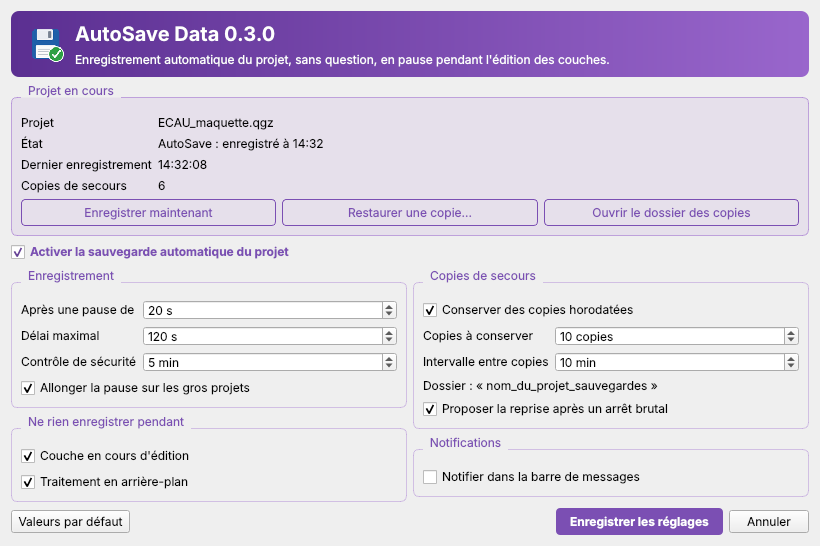
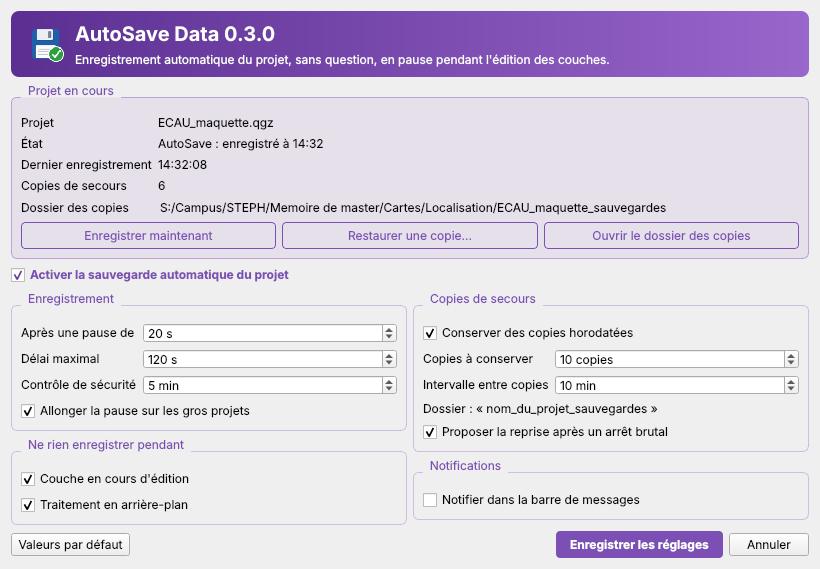
Reprise : suivre le changement de nom du projet, afficher le dossier des copies
Le journal de session gardait l'ancien nom après « Enregistrer sous », ce qui
faisait proposer le mauvais projet au redémarrage. Il suit maintenant chaque
enregistrement. La fenêtre de réglages affiche le dossier réel des copies.

Changed region(s): [[0.0, 0.0311, 0.9756, 0.9963]]

diff --git a/tests/test_plugin.py b/tests/test_plugin.py
@@ -661,6 +661,9 @@ def test_settings_dialog_receives_the_project_dashboard(env, monkeypatch):
     assert info["name"] == "carte.qgz" and info["has_file"] is True
     assert info["backups"] >= 1
     assert info["last_saved"] and "enregistré" in info["state"]
+    # Le vrai dossier des copies est transmis à la fenêtre, pas un nom générique
+    assert info["backup_dir"] == str(env.file.parent / "carte_sauvegardes")
+    assert dialog.last.info["backup_dir"].endswith("_sauvegardes")
 
 
 def test_settings_changes_are_applied_only_when_accepted(env, monkeypatch):
@@ -842,3 +845,22 @@ def test_journal_follows_project_and_saves(env):
     env.project.readProject.emit()                  # un autre projet est ouvert
     data = json.loads(next(sessions.iterdir()).read_text())
     assert data["project"].endswith("autre.qgz")
+
+
+def test_journal_follows_save_as_to_another_file(env):
+    """Enregistrer sous change le nom du projet sans rouvrir ni fermer : le journal
+    doit suivre, sinon la reprise proposerait l'ancien projet (constaté dans QGIS)."""
+    import json
+    sessions = env.dir / "_profil" / "AutoSaveData" / "sessions"
+    env.project.filename = str(env.dir / "test_reprise.qgz")   # Enregistrer sous
+    env.project.projectSaved.emit()                             # enregistrement manuel
+    data = json.loads(next(sessions.iterdir()).read_text())
+    assert data["project"].endswith("test_reprise.qgz")
+    assert data["last_save"] is not None
+
+    env.project.filename = str(env.dir / "troisieme.qgz")      # puis un autre nom, en auto
+    env.project.dirty = True
+    env.project.dirtySet.emit()
+    env.debounce.fire()
+    data = json.loads(next(sessions.iterdir()).read_text())
+    assert data["project"].endswith("troisieme.qgz")

diff --git a/autosave_data/dialog.py b/autosave_data/dialog.py
@@ -8,7 +8,7 @@ import os
 from qgis.PyQt.QtGui import QPixmap
 from qgis.PyQt.QtWidgets import (QCheckBox, QDialog, QDialogButtonBox,
                                  QFormLayout, QFrame, QGroupBox, QHBoxLayout,
-                                 QLabel, QListWidget, QListWidgetItem,
+                                 QLabel, QLineEdit, QListWidget, QListWidgetItem,
                                  QPushButton, QSpinBox, QVBoxLayout)
 
 from . import core
@@ -131,6 +131,16 @@ class SettingsDialog(QDialog):
                             QLabel(info.get("last_saved") or "aucun pour le moment"))
         backups = int(info.get("backups") or 0)
         project_form.addRow("Copies de secours", QLabel(str(backups)))
+        backup_dir = info.get("backup_dir") or ""
+        if backup_dir:
+            # Champ en lecture seule sur une ligne : un long chemin ne déforme pas
+            # la fenêtre, et on peut le sélectionner pour le copier.
+            folder_label = QLineEdit(backup_dir)
+            folder_label.setReadOnly(True)
+            folder_label.setCursorPosition(0)
+            folder_label.setToolTip(backup_dir)
+            folder_label.setStyleSheet("QLineEdit { background: transparent; border: none; }")
+            project_form.addRow("Dossier des copies", folder_label)
         hint = None
         if not has_file:
             hint = QLabel("Enregistrez d'abord le projet : Projet > Enregistrer sous.")

diff --git a/autosave_data/plugin.py b/autosave_data/plugin.py
@@ -343,6 +343,7 @@ class AutoSaveDataPlugin:
             "state": self._indicator.text() if self._indicator is not None else "",
             "last_saved": self._last_saved_text,
             "backups": len(core.list_backups(filename)) if filename else 0,
+            "backup_dir": core.backup_dir_for(filename) if filename else "",
         }
         dialog = SettingsDialog(self.config, self.iface.mainWindow(), info)
         runner = getattr(dialog, "exec", None) or dialog.exec_
@@ -403,7 +404,7 @@ class AutoSaveDataPlugin:
             self._conflict = False
             self._warned_external = False
             self._remember_signature(QgsProject.instance().fileName())
-            self._session("set_last_save")
+            self._session("set_last_save", QgsProject.instance().fileName())
 
     def _remember_signature(self, filename):
         """Mémorise l'état du fichier projet pour repérer une modification externe."""
@@ -710,7 +711,7 @@ class AutoSaveDataPlugin:
     def _notify_saved(self, filename):
         stamp = time.strftime("%H:%M:%S")
         self._last_saved_text = stamp
-        self._session("set_last_save")
+        self._session("set_last_save", filename)
         self._set_indicator(core.IND_SAVED)
         text = "Projet enregistré automatiquement à {}".format(stamp)
         self._status(text, 6000)

diff --git a/autosave_data/core.py b/autosave_data/core.py
@@ -585,7 +585,10 @@ class SessionTracker:
         self.project = project or ""
         self._write()
 
-    def set_last_save(self):
+    def set_last_save(self, project=None):
+        """Note un enregistrement ; `project` suit un changement de nom (Enregistrer sous)."""
+        if project is not None:
+            self.project = project or ""
         self.last_save = self.clock()
         self._write()
 

diff --git a/README.md b/README.md
@@ -127,7 +127,7 @@ La première copie de secours d'un projet dans une session est toujours faite av
 - Les projets stockés en base de données sont enregistrés, sans copie de secours ni contrôle de fichier.
 - Un projet dans un dossier en lecture seule est signalé une fois et n'est pas écrit.
 - La détection d'une modification externe compare la date et la taille du fichier. Un outil de synchronisation qui touche le fichier sans le changer peut la déclencher à tort : « Enregistrer le projet maintenant » ou la réouverture du projet lève l'alerte.
-- Version 0.x : la logique est couverte par 115 tests automatisés (QGIS simulé) et les fenêtres sont vérifiées sous Qt 5 et Qt 6. Les retours d'usage dans QGIS 3.x et 4.x sont les bienvenus dans les [Issues](https://github.com/steph20-seka/autosave-data-qgis/issues).
+- Version 0.x : la logique est couverte par 116 tests automatisés (QGIS simulé) et les fenêtres sont vérifiées sous Qt 5 et Qt 6. Les retours d'usage dans QGIS 3.x et 4.x sont les bienvenus dans les [Issues](https://github.com/steph20-seka/autosave-data-qgis/issues).
 
 ## Compatibilité
 

diff --git a/docs/historique/journal-de-developpement.md b/docs/historique/journal-de-developpement.md
@@ -10,6 +10,10 @@ Journal détaillé des itérations de travail (essais, corrections intermédiair
 - Réglage « Proposer la reprise après un arrêt brutal » (activé par défaut).
 - Fenêtres de réglages et de restauration aux couleurs améthyste (en-tête dégradé, boutons, groupes), avec une feuille de style qui suit le thème clair ou sombre de QGIS.
 
+### Corrigé
+- Le journal de session ne suivait pas « Enregistrer sous » : après un changement de nom de projet, la reprise aurait proposé l'ancien projet (constaté lors du test dans QGIS 3.44).
+- Les réglages affichent le dossier réel des copies de secours au lieu d'un nom générique.
+
 ### Limites
 - La reprise ne peut redonner que ce qui est sur le disque : les modifications faites depuis le dernier enregistrement, et les objets d'une couche en édition non validés, sont perdus.
 - Les versions proposées sont celles des copies de secours (une toutes les 10 min par défaut, 10 conservées). Une granularité plus fine (3 minutes) demande un instantané indépendant du projet ouvert, non encore validé dans un QGIS réel.

diff --git a/README.en.md b/README.en.md
@@ -123,7 +123,7 @@ The first backup of a project in a session is always made before the first overw
 - Saving a large project briefly freezes the interface. The adaptive pause reduces this without removing it.
 - Projects stored in a database are saved, without backup copies or file check.
 - A project in a read-only folder is reported once and is not written.
-- Version 0.x: the logic is covered by 115 automated tests (simulated QGIS) and the dialogs are checked under Qt 5 and Qt 6. Feedback from real use in QGIS 3.x and 4.x is welcome in the [Issues](https://github.com/steph20-seka/autosave-data-qgis/issues).
+- Version 0.x: the logic is covered by 116 automated tests (simulated QGIS) and the dialogs are checked under Qt 5 and Qt 6. Feedback from real use in QGIS 3.x and 4.x is welcome in the [Issues](https://github.com/steph20-seka/autosave-data-qgis/issues).
 
 ## Compatibility
 
